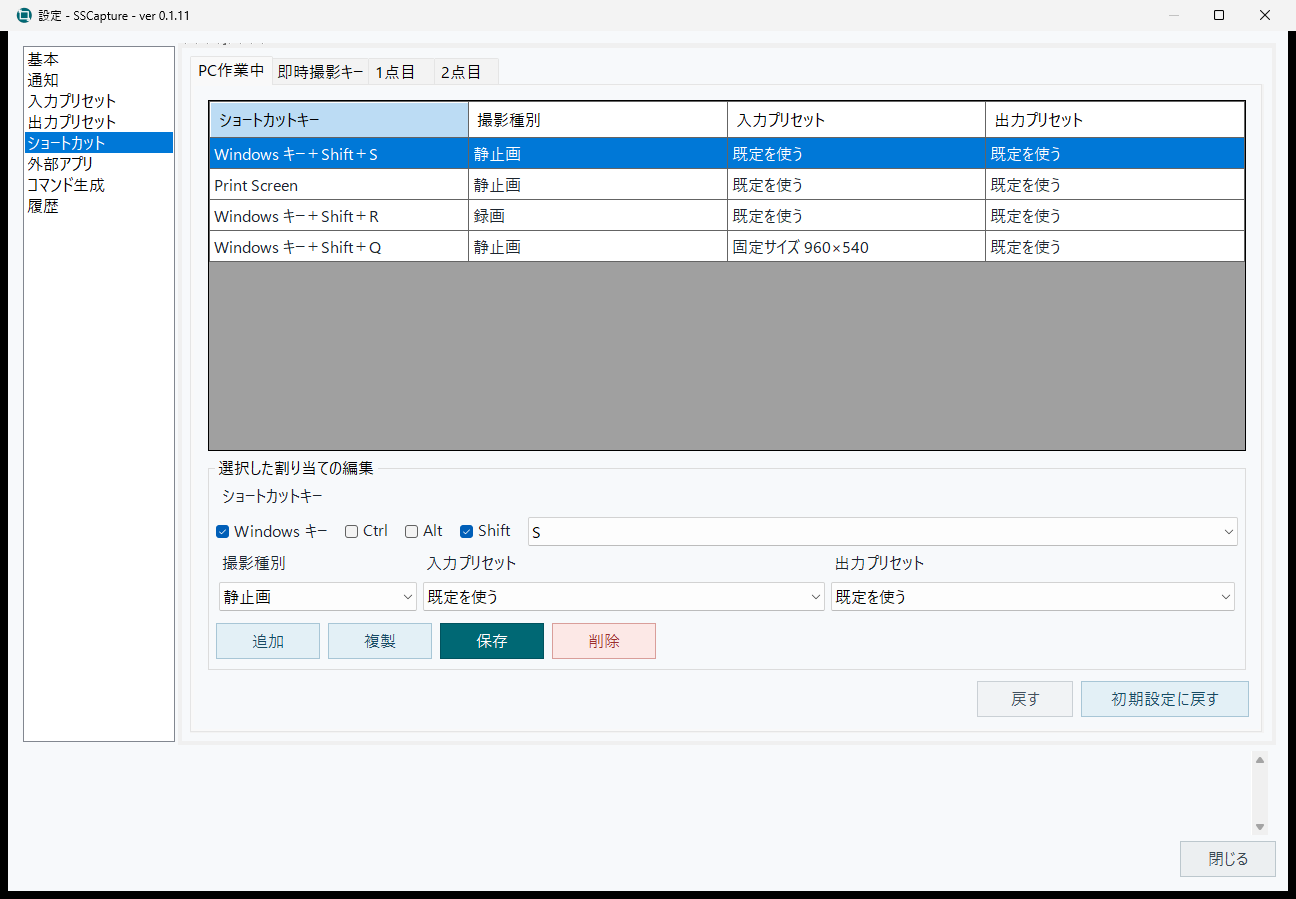
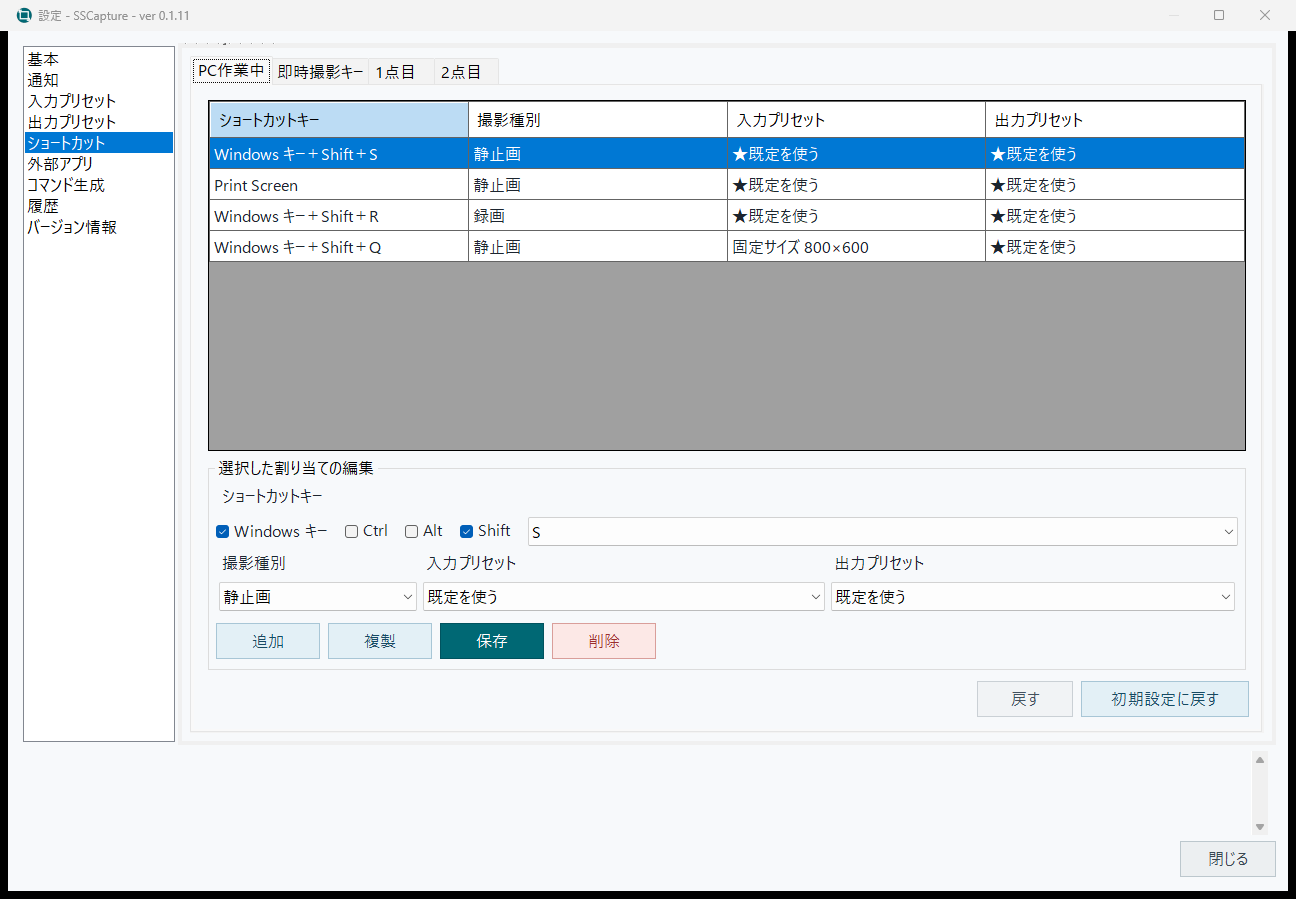
SSCapture v0.1.11ベータ版の公開候補を確定する
固定サイズキーとショートカット表の表示を確定し、利用ガイドと同梱画像を整理する。公開用ビルドと実画面の検証結果を版別報告に記録する。

diff --git a/tests/SSCapture.Tests/PresetConsolidationTests.cs b/tests/SSCapture.Tests/PresetConsolidationTests.cs
@@ -90,6 +90,11 @@ internal static partial class Program
                     "既定にするボタンがリスト直下に揃わない");
             }
 
+            var grid = (DataGridView)form.Controls.Find("PresetCaptureShortcuts", true).Single();
+            var normal = grid.Rows.Cast<DataGridViewRow>().Single(row =>
+                Equals(row.Cells[0].Value, KeyDisplay.Binding("Win+Shift+S")));
+            Equal<string?>("★既定を使う", normal.Cells[2].Value as string);
+            Equal<string?>("★既定を使う", normal.Cells[3].Value as string);
             var group = form.Controls.Find("SelectedShortcutAssignment", true).Single();
             Check(group is GroupBox && group.Contains(form.Controls.Find("PresetCaptureShortcut", true).Single()) &&
                 !group.Contains(form.Controls.Find("PresetCaptureShortcuts", true).Single()), "ショートカットの一覧と編集欄の区別がない");
@@ -108,7 +113,7 @@ internal static partial class Program
             var quick = settings.PresetCaptureShortcuts!.Single(row => row.Key == "Win+Shift+Q");
             var fixedPreset = ResolvedPresetCapture.Resolve(settings, quick.InputPresetId, quick.OutputPresetId);
             Check(!quick.UsesDirectCapture(fixedPreset.Input), "固定サイズキーが選択画面を開かない");
-            Equal(new Size(960, 540), fixedPreset.Input.Bounds.Size);
+            Equal(new Size(800, 600), fixedPreset.Input.Bounds.Size);
             VerifyStandardFixedFrames(settings);
             Equal("囲った範囲", settings.SavedRegions.Single(p => p.IsDefault).Name); Equal("クリップボード", settings.CapturePresets.Single(p => p.IsDefault).Name);
             Check(settings.CapturePresets.Select(p => p.Destination).ToHashSet().SetEquals([OutputDestination.Clipboard, OutputDestination.File, OutputDestination.Clipboard | OutputDestination.File]), "初期出力の組合せが異なる");

diff --git a/src/SSCapture/Services/PresetSettings.cs b/src/SSCapture/Services/PresetSettings.cs
@@ -7,6 +7,7 @@ internal static class PresetSettings
     internal const string PaintKey = "builtin-paint";
     internal const string InitialWindowKey = "initial-input-window";
     internal const string InitialFixedKey = "initial-input-fixed";
+    internal const string DefaultFixedShortcutPresetKey = "initial-input-fixed-800-600";
     internal const int InitialFixedWidth = 960;
     internal const int InitialFixedHeight = 540;
     internal static Size InitialFixedSize => new(InitialFixedWidth, InitialFixedHeight);
@@ -14,7 +15,7 @@ internal static class PresetSettings
     private static readonly (string Key, Size OldSize, Size NewSize)[] FixedTemplates =
     [
         (InitialFixedKey, new(1280, 720), InitialFixedSize),
-        ("initial-input-fixed-800-600", new(1920, 1080), new(800, 600)),
+        (DefaultFixedShortcutPresetKey, new(1920, 1080), new(800, 600)),
         ("initial-input-fixed-320-240", new(2560, 1440), new(320, 240))
     ];
 

diff --git a/src/SSCapture/Services/PresetCapture.cs b/src/SSCapture/Services/PresetCapture.cs
@@ -49,7 +49,7 @@ internal sealed record PresetCaptureShortcut(string Key, string? InputPresetId =
     internal static PresetCaptureShortcut? FindDefaultFixedAssignment(AppSettings settings)
     {
         const string key = "Win+Shift+Q";
-        if (settings.SavedRegions.FirstOrDefault(region => region.BuiltInKey == PresetSettings.InitialFixedKey) is not { } preset)
+        if (settings.SavedRegions.FirstOrDefault(region => region.BuiltInKey == PresetSettings.DefaultFixedShortcutPresetKey) is not { } preset)
             return null;
         var used = (settings.PresetCaptureShortcuts ?? []).Select(row => row.Key)
             .Concat(settings.InstantShortcuts).Append(settings.LastRecipeShortcut);

diff --git a/src/SSCapture/UI/PresetCaptureShortcutEditor.cs b/src/SSCapture/UI/PresetCaptureShortcutEditor.cs
@@ -195,7 +195,9 @@ internal sealed class PresetCaptureShortcutEditor : UserControl
     }
 
     private object[] DisplayValues(PresetCaptureShortcut row) =>
-        [KeyDisplay.Binding(row.Key), row.IntentLabel, FindItem(inputs, row.InputPresetId).Name, FindItem(outputs, row.OutputPresetId).Name];
+        [KeyDisplay.Binding(row.Key), row.IntentLabel,
+            row.InputPresetId is null ? "★既定を使う" : FindItem(inputs, row.InputPresetId).Name,
+            row.OutputPresetId is null ? "★既定を使う" : FindItem(outputs, row.OutputPresetId).Name];
 
     private static void SetChoices(ComboBox combo, PresetItem[] choices, string? id)
     {

diff --git a/docs/releases/v0.1.11.md b/docs/releases/v0.1.11.md
@@ -1,7 +1,7 @@
 # SSCapture v0.1.11 (beta)
 
 - 矩形をドラッグまたは2回のクリックで選択できます。拡大鏡と矢印キーで画素単位の位置を確認できます。拡大鏡は撮影に含む画素の境界を赤線で示し、ドット数と倍率を設定できます。
-- 撮影中の修飾キーに部品選択を割り当てると、ボタンや入力欄を選んで撮影できます。ドラッグで複数のコントロールを1枚に合成できます。選んだウィンドウの画像は、出力プリセットで四辺を指定して切り抜けます。
+- 撮影中の修飾キーにコントロール選択を割り当てると、ボタンや入力欄を選んで撮影できます。ドラッグで複数のコントロールを1枚に合成できます。選んだウィンドウの画像は、出力プリセットで四辺を指定して切り抜けます。
 - 単一のウィンドウ・コントロール、矩形のドラッグ、固定サイズの枠を、ホイール1目盛りごとに四辺1物理pxずつ広げ・狭められます。Spaceで基点を切り替えても調整量を保ちます。
 - スクロール撮影を追加しました。選んだ領域を縦にスクロールし、重なりを照合して1枚の縦長の静止画にします。
 - 「撮影操作を画面共有・配信に表示する」で、モニター全体の配信に選択枠や操作ガイドを表示できます。初期設定はOFFです。
@@ -11,7 +11,7 @@
 - 1点目と2点目の中クリックの既定を拡大鏡の表示切替にしました。コントロール選択とウィンドウ撮影のプッシュ・トグルは1点目の修飾キーごとに選べます。
 - 設定に「バージョン情報」を追加しました。バージョン・更新日・作者・概要を確認し、「使い方」「アップデート情報」「不具合を報告」からGitHubを開けます。
 - 白い余白は出力プリセットで指定するようになりました。以前の入力プリセットの値は引き継ぎます。
-- 新規設定の標準固定サイズを960×540・800×600・320×240pxにしました。Win＋Shift＋Qで960×540pxの枠から撮影を始めます。編集済みの固定サイズは変更しません。
+- 新規設定の標準固定サイズを960×540・800×600・320×240pxにしました。Win＋Shift＋Qで800×600pxの枠から撮影を始めます。編集済みの固定サイズは変更しません。
 - 設定の書き出し・取り込みと、各設定ページの「初期設定に戻す」に対応しました。自動起動は基本設定の右下にある「適用」で確定します。
 - 通知の表示先の初期値をメイン画面の右下にしました。画面右下の操作ガイドは、メイン画面と撮影モニターのどちらに出すかを選べます。
 - Snipping Toolを外部編集アプリに登録できます。未保存画像を渡すときも出力プリセットの命名パターンを使います。

diff --git a/docs/DEVELOPERS_GUIDE.md b/docs/DEVELOPERS_GUIDE.md
@@ -151,14 +151,14 @@ pwsh -File scripts/package.ps1
 
 設定画面の全ページの画像は `--settings-gallery` で作り直します。手順は[設定画面一覧](settings.md#画像の作り直し)にあります。
 
-READMEの「撮影中の画面」の4枚は、設定画面の画像を作った後に、リポジトリのルートで次のコマンドを実行して作り直します。架空のデスクトップ（設定画面の画像とサンプルの資料の窓）を背景にし、マウス操作は撮影セッションへ直接渡すので、実際の画面・マウス・キーは使いません。撮影画面と操作ガイドは画面取得から除外されているため、ウィンドウに自分自身を描かせて画像にします。実行中は数秒間、画面の左上に撮影画面が表示されます。
+[使い方の「撮影中の画面」](usage.md#撮影中の画面)にある4枚（1枚目はREADMEにも掲載）は、設定画面の画像を作った後に、リポジトリのルートで次のコマンドを実行して作り直します。架空のデスクトップ（設定画面の画像とサンプルの資料の窓）を背景にし、マウス操作は撮影セッションへ直接渡すので、実際の画面・マウス・キーは使いません。撮影画面と操作ガイドは画面取得から除外されているため、ウィンドウに自分自身を描かせて画像にします。実行中は数秒間、画面の左上に撮影画面が表示されます。
 
 ```powershell
 .tools/dotnet/dotnet.exe tests/SSCapture.Tests/bin/Release/net10.0-windows10.0.19041.0/SSCapture.Tests.dll --capture-scene-gallery docs/images/readme
 ```
 
-READMEに画像を追加・改名したときは、`scripts/managed-payload.ps1` の `Get-ReadmeImages` にも登録します。登録しない画像は配布物に入らず、インストール先のREADMEで表示されません。
+同梱するREADMEや利用ガイドの画像を追加・改名したときは、`scripts/managed-payload.ps1` の `Get-ManagedDocumentImages` も更新します。登録した画像はインストール先でも参照できます。
 
 先に`pwsh -File scripts/test.ps1 -Suite Preset`と同じ`-Suite Menu`を実行します。専用のビルド出力を使い、設定はSSCapture.exeの`--ui-preview`、範囲と撮影メニューはSSCapture.Tests.exeの`--capture-menu-preview <専用出力先>`で開きます。後者は合成画像を使い、実画面取得とクリップボード操作をしません。
 
-設定・入力・出力・範囲・メニュー・結果通知の6場面をREADMEへ掲載しました。範囲確定後は専用先のPNGと寸法を読み戻して確認します。実撮影の受入とは区別してください。
+範囲確定後は専用先のPNGと寸法を読み戻して確認します。この手順では合成画像の出力を検証します。

diff --git a/dev/RELEASE_RULE.md b/dev/RELEASE_RULE.md
@@ -7,15 +7,15 @@
 | 項目 | 値 |
 | --- | --- |
 | リポジトリ | `KotorinChunChun/SSCapture`、main |
-| 対象の版・タグ | `0.1.10` / `v0.1.10` |
+| 対象の版・タグ | `0.1.11` / `v0.1.11` |
 | AppId | `KotorinToys.SSCapture` |
 | 導入先の既定 | `{localappdata}\Programs\SSCapture` |
 | 対象 | Windows 11 x64、ユーザー単位 |
 | 形式 | Inno Setupインストーラー、.NET 10 Desktop Runtime同梱 |
 | 公開状態 | 未署名のprereleaseを継続 |
-| 公開用出力先 | `release/v0.1.10/`、Git除外 |
+| 公開用出力先 | `release/v0.1.11/`、Git除外 |
 
-v0.1.10の変更点は[リリースノート](../docs/releases/v0.1.10.md)、確認した操作と条件は[版別報告](history/v0.1.10/v0.1.10-imp.md)を参照する。
+v0.1.11の変更点は[リリースノート](../docs/releases/v0.1.11.md)、確認した操作と条件は[版別報告](history/v0.1.11/v0.1.11-imp.md)を参照する。
 
 公開対象のコミットを確定し、新しい発行先で公開用セットアップと目録を生成して検査する。既存候補を版別logsへ退避する。正式導入済みのアプリは設定・履歴を保持して公開版へ更新し、再起動を確認する。
 
@@ -54,10 +54,10 @@ pwsh -File scripts/package.ps1
 git fetch origin --prune
 git status --short
 git rev-list --left-right --count origin/main...HEAD
-Get-FileHash release/v0.1.10/SSCapture-0.1.10-setup.exe -Algorithm SHA256
+Get-FileHash release/v0.1.11/SSCapture-0.1.11-setup.exe -Algorithm SHA256
 git push origin main
 $releaseCommit = git rev-parse HEAD
-gh release create v0.1.10 release/v0.1.10/SSCapture-0.1.10-setup.exe release/v0.1.10/SSCapture-packages.json release/v0.1.10/SSCapture-SHA256SUMS.txt --repo KotorinChunChun/SSCapture --target $releaseCommit --title 'SSCapture v0.1.10' --notes-file docs/releases/v0.1.10.md --prerelease
+gh release create v0.1.11 release/v0.1.11/SSCapture-0.1.11-setup.exe release/v0.1.11/SSCapture-packages.json release/v0.1.11/SSCapture-SHA256SUMS.txt --repo KotorinChunChun/SSCapture --target $releaseCommit --title 'SSCapture v0.1.11 (beta)' --notes-file docs/releases/v0.1.11.md --prerelease
 ```
 
 mainだけをプッシュする。不要な過去タグの一括送信・force pushを行わない。Release作成後はタグの対象コミット、3資産のサイズ・SHA256、ノートを確認し、実公開URLを報告する。

diff --git a/docs/settings.md b/docs/settings.md
@@ -49,7 +49,7 @@
 
 | タブ | 内容 |
 | --- | --- |
-| 取得条件 | 撮影モード（矩形・ウィンドウ・全画面・自由形状・固定サイズ・固定位置とサイズ・スクロール）、撮影開始時の画面を固定するか、マウスカーソルを含めるか、矩形の選び方（ドラッグ・2回のクリック）を選びます。 |
+| 取得条件 | 撮影モード（矩形・ウィンドウ・全画面・自由形状・固定サイズ・固定位置とサイズ・スクロール）、撮影開始時の画面を固定するか、マウスカーソルを含めるか、矩形の選び方（ドラッグ・2回のクリック）、[撮影開始タイマー](usage.md#撮影開始タイマー)を設定します。 |
 | 座標・寸法 | 固定サイズの幅・高さと基点、固定位置の座標を指定します。「囲み直す」「この寸法で位置を選ぶ」で実際の画面から範囲を指定できます。 |
 | 録画・音声 | 録画のときにPCの再生音とマイクを録音するか、使うマイクを選びます。 |
 
@@ -77,7 +77,7 @@
 
 ![ショートカットのPC作業中](images/settings/05-shortcuts-1.png)
 
-撮影を始めるキーの一覧です。1行ごとに、キー・静止画か録画か・入力プリセット・出力プリセットを組み合わせます。プリセットの「既定を使う」は、撮影した時点の既定を使います。新規設定では、Windowsキー＋Shift＋SとPrint Screenで静止画、Windowsキー＋Shift＋Rで録画、Windowsキー＋Shift＋Qで960×540pxの固定サイズを撮ります。[プリセット撮影のショートカット](usage.md#プリセット撮影のショートカット)
+撮影を始めるキーの一覧です。1行ごとに、キー・静止画か録画か・入力プリセット・出力プリセットを組み合わせます。表の「★既定を使う」は、撮影した時点の既定を使います。新規設定では、Windowsキー＋Shift＋SとPrint Screenで静止画、Windowsキー＋Shift＋Rで録画、Windowsキー＋Shift＋Qで800×600pxの固定サイズを撮ります。[プリセット撮影のショートカット](usage.md#プリセット撮影のショートカット)
 
 ### 即時撮影キー
 

diff --git a/AGENTS.md b/AGENTS.md
@@ -35,7 +35,7 @@
 - `dev/reject.md`: ユーザーが実装しないと明言した事項だけをプロジェクト全体で記録する。AI独自の却下事項を追加しない。
 - 標準フロー: req/reject確認 → 不明点確認 → imp計画 → 必要時task → フェーズ実装/文書更新 → 検証 → imp結果 → コミット → 最終報告。
 - 公開済みの `docs/releases/` と、過去版の `dev/history/` は当時の記録として書き換えない。誤りが分かったときは削除・改変せず、日付を付けた追記で訂正する。現行の利用・開発文書（README・docs・dev直下）は最新の動作に合わせる。
-- 機能を追加・変更したら、同じコミットで README・docs/usage.md・docs/cli.md・未公開版のリリースノートの該当箇所を更新する。設定画面の項目・配置を変えたら、docs/settings.mdの説明と画像（`--settings-gallery`）も更新する。撮影画面の表示を変えたら、READMEの「撮影中の画面」の画像（`--capture-scene-gallery`）も撮り直す。
+- 機能を追加・変更したら、同じコミットで README・docs/usage.md・docs/cli.md・未公開版のリリースノートの該当箇所を更新する。設定画面の項目・配置を変えたら、docs/settings.mdの説明と画像（`--settings-gallery`）も更新する。撮影画面の表示を変えたら、docs/usage.mdの「撮影中の画面」の画像（`--capture-scene-gallery`）も撮り直す。READMEの冒頭にはその1枚目を掲載する。
 
 ## 検証
 
